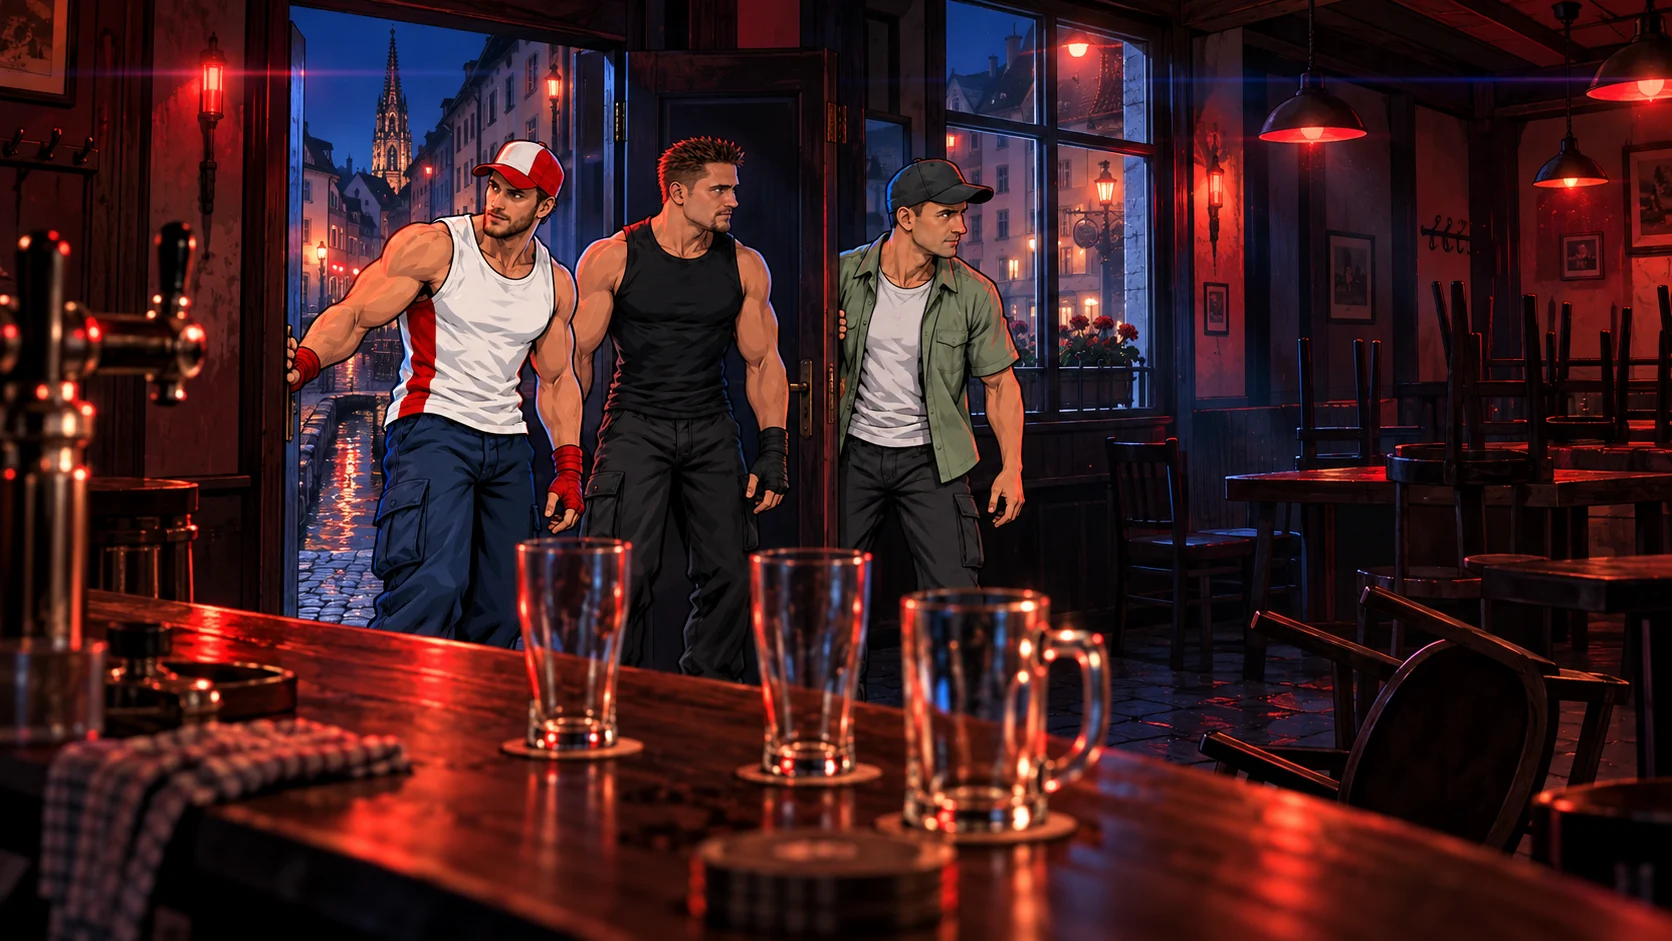
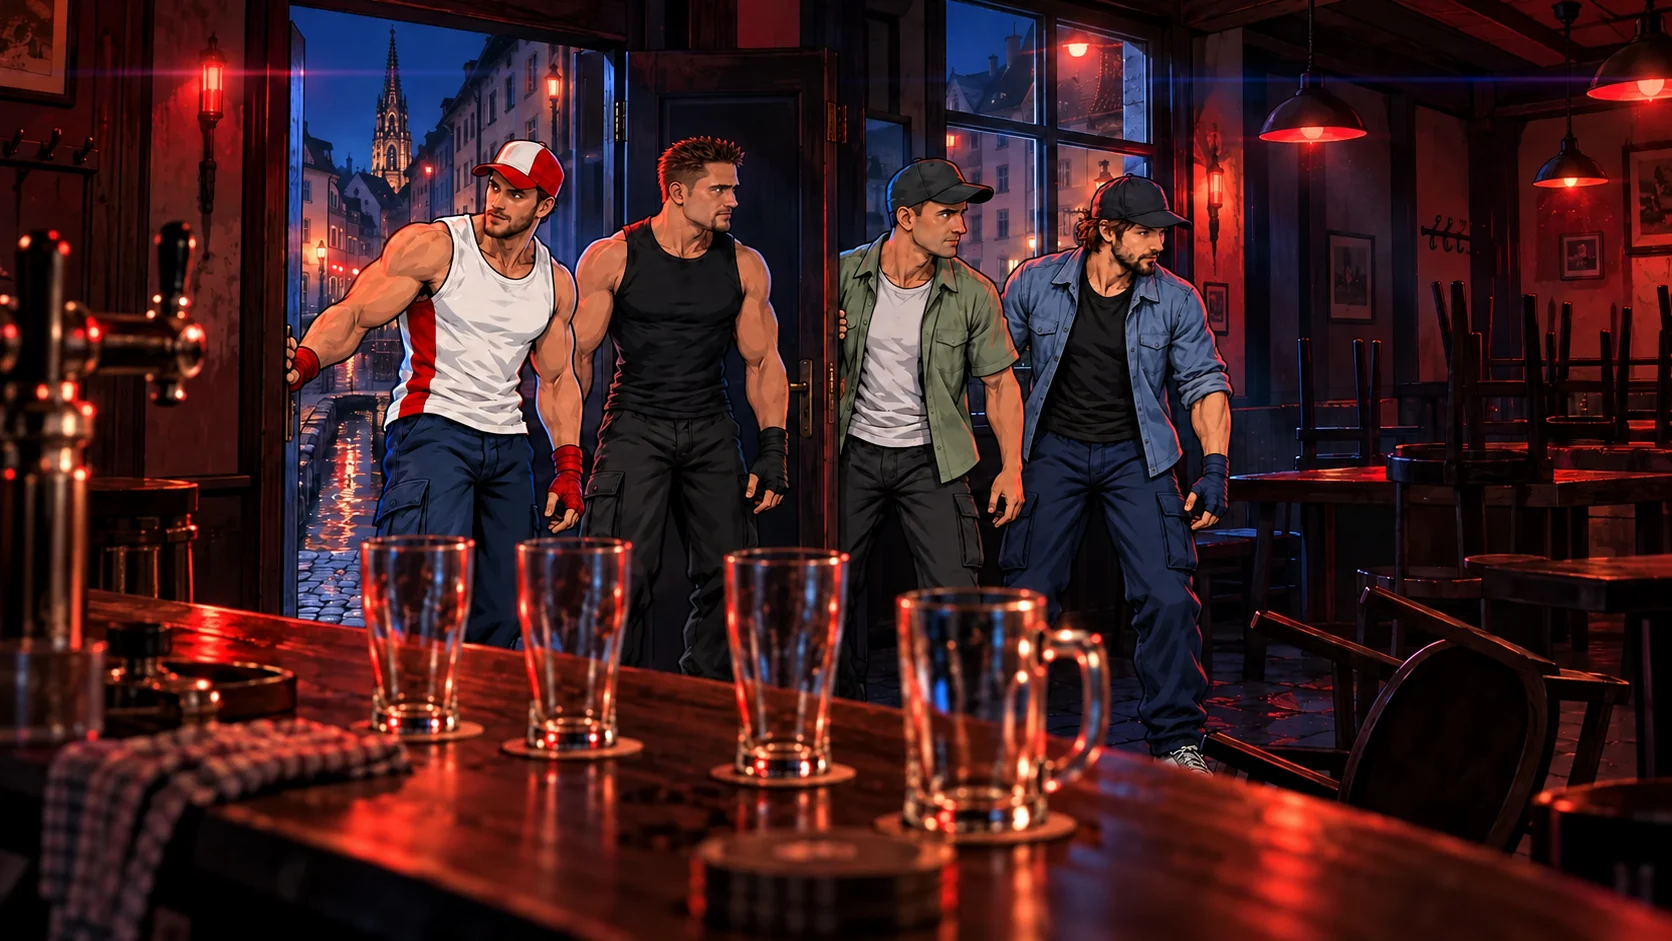
Include Andreas Boehler in all story illustrations and dialogue 1.10.1

diff --git a/src/story.js b/src/story.js
@@ -5,32 +5,32 @@ const esc=value=>String(value).replace(/[&<>"']/g,c=>({'&':'&amp;','<':'&lt;','>
 const scene=(image,title,body,lines,place)=>({image:STORY_IMAGES[image-1],title,body,lines,place});
 const names=ids=>(ids?.length?ids:['nico','stefan']).map(id=>HEROES[id]?.name?.split(' ')[0]||'Team');
 
-/** Short chapter beats; art depicts the founding trio, dialogue follows the selected team. */
+/** Short chapter beats; art depicts the four friends, dialogue follows the selected team. */
 export function storyForLevel(index,ids){
- const [first,second='Team']=names(ids),level=LEVELS[index];
+ const [first,second='Team',third=first,fourth=second]=names(ids),level=LEVELS[index];
  if(!level)return [];
  const place=`LEVEL ${index+1} / ${LEVELS.length} · ${level.name}`;
  switch(level.id){
  case 'kajo':return [
-  scene(1,'Die letzte Runde','Eigentlich wollten Nico, Stefan und Torsten nur ein Feierabendbier. Doch der Treffpunkt ist verwüstet. Ihr Freund fehlt. Jetzt übernimmt euer Team die Suche.',[[first,'Ein Bier. Mehr hatten wir nicht vor.'],[second,'Dann wird das wohl ein längerer Abend.']], 'FREIBURG · KURZ VOR MITTERNACHT'),
-  scene(2,'Eine letzte Nachricht','Auf dem Tresen liegt sein Handy: „Kommt ins Bermuda. Und bringt bloß nicht Stefan mit.“ Ein Kurier wurde zuletzt auf der KaJo gesehen.',[[ids?.includes('stefan')?'Stefan':first,ids?.includes('stefan')?'Jetzt erst recht.':'Dann gehen wir ihn suchen.']],place)
+  scene(1,'Die letzte Runde','Eigentlich wollten Nico, Stefan, Torsten und Andreas Böhler nur ein Feierabendbier. Doch der Treffpunkt ist verwüstet. Ihr Freund fehlt. Jetzt übernimmt euer Team die Suche.',[[first,'Ein Bier. Mehr hatten wir nicht vor.'],[second,'Dann wird das wohl ein längerer Abend.']], 'FREIBURG · KURZ VOR MITTERNACHT'),
+  scene(2,'Eine letzte Nachricht','Auf dem Tresen liegt sein Handy: „Kommt ins Bermuda. Und bringt bloß nicht Stefan mit.“ Andreas sichert die Nachricht. Ein Kurier wurde zuletzt auf der KaJo gesehen.',[[ids?.includes('stefan')?'Stefan':first,ids?.includes('stefan')?'Jetzt erst recht.':'Dann gehen wir ihn suchen.'],[ids?.includes('andreas')?'Andreas':second,'Nachricht gesichert. Los.']],place)
  ];
  case 'stuehlinger':return [scene(3,'Die falsche Tasche','Dr. Rendites Spur führt in den Stühlinger. Ein Kurier trägt dieselbe schwarze Tasche wie euer Freund. Als ihr ihn ansprecht, rennt er los.',[[first,'Wir wollen nur kurz was fragen!'],[second,'Das sagen wir offenbar zu bedrohlich.']],place)];
- case 'park':return [scene(3,'Alle haben etwas gesehen','Der Kurier verschwindet am Kirchplatz. Ein Veranstalter, ein eifriger Fotograf und ein betrunkener Stammgast liefern drei Versionen derselben Nacht. Ein Name fällt immer: der Nachtbürgermeister.',[[first,'Ist der gewählt?'],[second,'Von seinen eigenen Türstehern.']],place)];
- case 'dreisam':return [scene(4,'Ein ruhiger Treffpunkt','Die Spur führt unter eine Brücke. Dort sollte die Tasche übergeben werden. Darin steckt die Abrechnung eines Clubbesitzers, der das ganze Nachtleben kontrollieren will. Der Nachtbürgermeister hat bereits Leute geschickt.',[[first,'Hier sollte doch niemand sein.'],[second,'Das war wohl die Beschreibung für nachher.']],place)];
+ case 'park':return [scene(3,'Alle haben etwas gesehen','Der Kurier verschwindet am Kirchplatz. Ein Veranstalter, ein eifriger Fotograf und ein betrunkener Stammgast liefern drei Versionen derselben Nacht. Ein Name fällt immer: der Nachtbürgermeister.',[[third,'Ist der gewählt?'],[fourth,'Von seinen eigenen Türstehern.']],place)];
+ case 'dreisam':return [scene(4,'Ein ruhiger Treffpunkt','Die Spur führt unter eine Brücke. Dort sollte die Tasche übergeben werden. Darin steckt die Abrechnung eines Clubbesitzers, der das ganze Nachtleben kontrollieren will. Der Nachtbürgermeister hat bereits Leute geschickt.',[[third,'Hier sollte doch niemand sein.'],[fourth,'Das war wohl die Beschreibung für nachher.']],place)];
  case 'haslach':return [scene(4,'Hinter der nächsten Tür','Nach dem Hinterhalt steht fest: Euer Freund hat die Taschen verwechselt. Der Pförtner hält ihn in einem Hinterhof in Haslach–Weingarten fest. Holt ihn dort heraus.',[[first,'Und das alles wegen einer Sporttasche.'],[second,'Hoffentlich ist wenigstens unser Bier drin.']],place)];
  case 'wiehre':return [scene(5,'Gerettet. Fast.','Euer Freund ist frei und hat seine eigene Tasche wieder. Aber sein Fahrrad und die brisante Abrechnung sind noch im Bermuda. Der Nachtkassierer am Alten Wiehrebahnhof kennt den Weg zur letzten Tür.',[['Euer Freund','Ohne mein Fahrrad gehe ich nicht.'],[first,'Wir haben gerade einen halben Stadtteil nach dir abgesucht.']],place)];
- case 'bermuda':return [scene(6,'Die letzte Tür','Der Nachtkassierer hat geredet. Hinter der Mähne feiert der Nachtbürgermeister bereits seine „saubere, exklusive Innenstadt“. Ihr wollt das Fahrrad, die Abrechnung und Freiburgs Nacht zurück.',[['Die Mähne','Heute nur mit Gästeliste.'],[first,'Dann schreib uns drauf.']],place)];
+ case 'bermuda':return [scene(6,'Die letzte Tür','Der Nachtkassierer hat geredet. Hinter der Mähne feiert der Nachtbürgermeister bereits seine „saubere, exklusive Innenstadt“. Ihr wollt das Fahrrad, die Abrechnung und Freiburgs Nacht zurück.',[['Die Mähne','Heute nur mit Gästeliste.'],[ids?.includes('andreas')?'Andreas':first,'Dann schreib uns drauf.']],place)];
  default:return [];
  }
 }
 
 export function storyEnding(ids){
  const [first,second='Team']=names(ids);
- return [scene(2,'Drei warme Bier','Die Mähne ist besiegt. Die Abrechnung geht an die Öffentlichkeit, und dem selbst ernannten Nachtbürgermeister laufen die Partner davon. Euer Freund öffnet endlich seine eigene Tasche: drei warme Bier. Ein Fahrradschloss.',[['Euer Freund','Hab doch gesagt: Ich habe alles dabei.'],[first,'Können wir jetzt endlich einen trinken?'],[second,'Die machen gerade zu.']], 'ENDE · FREIBURG GEHÖRT WIEDER DER NACHT')];
+ return [scene(2,'Vier warme Bier','Die Mähne ist besiegt. Andreas veröffentlicht die gesicherte Abrechnung, und dem selbst ernannten Nachtbürgermeister laufen die Partner davon. Euer Freund öffnet endlich seine eigene Tasche: vier warme Bier. Ein Fahrradschloss.',[['Euer Freund','Hab doch gesagt: Ich habe alles dabei.'],[first,'Können wir jetzt endlich einen trinken?'],[second,'Die machen gerade zu.']], 'ENDE · FREIBURG GEHÖRT WIEDER DER NACHT')];
 }
 
 export function storyHTML(scenes,index=0){
  const s=scenes[index];if(!s)throw new RangeError('Unknown story scene');
- return `<section class="story-screen" aria-labelledby="story-title"><img class="story-image" src="./${esc(s.image)}" alt="${esc(s.title)} – gezeichnete Szene aus der Freiburger Nacht" decoding="async"><div class="story-shade"></div><header class="story-header"><span>FREIBURG AFTER DARK · DIE LETZTE RUNDE</span><button data-action="story-skip">Überspringen <small>ESC</small></button></header><div class="story-copy"><p class="story-place">${esc(s.place)}</p><h1 id="story-title">${esc(s.title)}</h1><p class="story-body">${esc(s.body)}</p><div class="story-dialogue">${s.lines.map(([who,line])=>`<p><strong>${esc(who)}</strong><span>„${esc(line)}“</span></p>`).join('')}</div><footer><span class="story-count">${String(index+1).padStart(2,'0')} / ${String(scenes.length).padStart(2,'0')}</span><button data-action="story-next">${index+1<scenes.length?'Weiter':s.place.startsWith('ENDE')?'Zur Auswertung':'Zur Levelroute'} <small>ENTER / A</small></button></footer></div></section>`;
+ return `<section class="story-screen" aria-labelledby="story-title"><img class="story-image" src="./${esc(s.image)}?v=four-heroes-1" alt="${esc(s.title)} – gezeichnete Szene aus der Freiburger Nacht" decoding="async"><div class="story-shade"></div><header class="story-header"><span>FREIBURG AFTER DARK · DIE LETZTE RUNDE</span><button data-action="story-skip">Überspringen <small>ESC</small></button></header><div class="story-copy"><p class="story-place">${esc(s.place)}</p><h1 id="story-title">${esc(s.title)}</h1><p class="story-body">${esc(s.body)}</p><div class="story-dialogue">${s.lines.map(([who,line])=>`<p><strong>${esc(who)}</strong><span>„${esc(line)}“</span></p>`).join('')}</div><footer><span class="story-count">${String(index+1).padStart(2,'0')} / ${String(scenes.length).padStart(2,'0')}</span><button data-action="story-next">${index+1<scenes.length?'Weiter':s.place.startsWith('ENDE')?'Zur Auswertung':'Zur Levelroute'} <small>ENTER / A</small></button></footer></div></section>`;
 }

diff --git a/README.md b/README.md
@@ -1,6 +1,6 @@
 # Freiburg After Dark
 
-Version 1.10.0 — ein gezeichnetes 2D-Beat-’em-up durch das nächtliche Freiburg: solo mit KI-Sidekick oder lokal mit zwei bis vier Menschen.
+Version 1.10.1 — ein gezeichnetes 2D-Beat-’em-up durch das nächtliche Freiburg: solo mit KI-Sidekick oder lokal mit zwei bis vier Menschen.
 
 Im Browser öffnen und „Spiel starten“ wählen. Solo: Hauptfigur und Sidekick auswählen. Couch-Koop: „Tastatur links“ und „Tastatur rechts“ auswählen, um zu zweit ohne Controller zu spielen. Weitere Spieler können per Gamepad mit A beitreten; insgesamt bis zu vier. Danach erklärt ein Steuerungsbildschirm die wichtigsten Aktionen und führt zur Levelroute. Auf dem Startbildschirm läuft Musik als Loop; falls der Browser zunächst stumm bleibt, „Musik aktivieren“ anklicken. Beim Spielstart wird zur Levelmusik überblendet. In den Einstellungen lassen sich Musik, Effekte und Kampflaute getrennt regeln.
 
@@ -38,7 +38,7 @@ Ein Baseballschläger hält sechs erfolgreiche Schläge; J wirft ein getragenes 
 
 ## Die letzte Runde
 
-Eine vertauschte Tasche, ein verschwundener Freund und ein selbst ernannter Nachtbürgermeister verbinden die sieben Viertel. Sechs gezeichnete Storybilder begleiten kurze Dialoge vor den Levelrouten und einen Epilog nach dem Finale. Enter / A blättert weiter; Überspringen / Esc führt direkt zur Route beziehungsweise zur Endauswertung. Die Bilder werden erst bei ihrer Szene geladen. Dialoge passen sich dem ausgewählten Team an.
+Nico, Stefan, Torsten und Andreas Böhler geraten durch eine vertauschte Tasche und einen verschwundenen Freund an den selbst ernannten Nachtbürgermeister. Alle vier Helden sind in den sechs Storybildern dabei; Andreas sichert die Hinweise und veröffentlicht am Ende die Abrechnung. Sechs gezeichnete Storybilder begleiten kurze Dialoge vor den Levelrouten und einen Epilog nach dem Finale. Enter / A blättert weiter; Überspringen / Esc führt direkt zur Route beziehungsweise zur Endauswertung. Die Bilder werden erst bei ihrer Szene geladen. Dialoge passen sich dem ausgewählten Team an.
 
 ## Die Nacht
 
